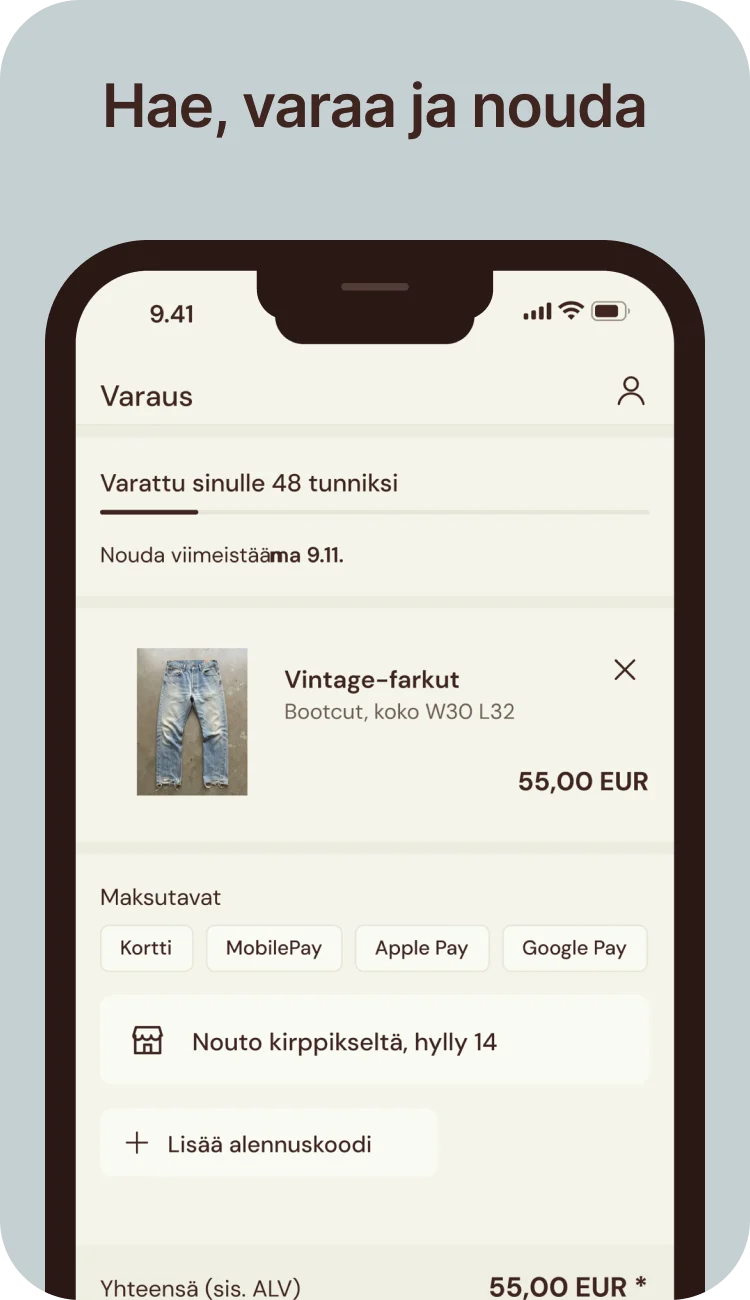
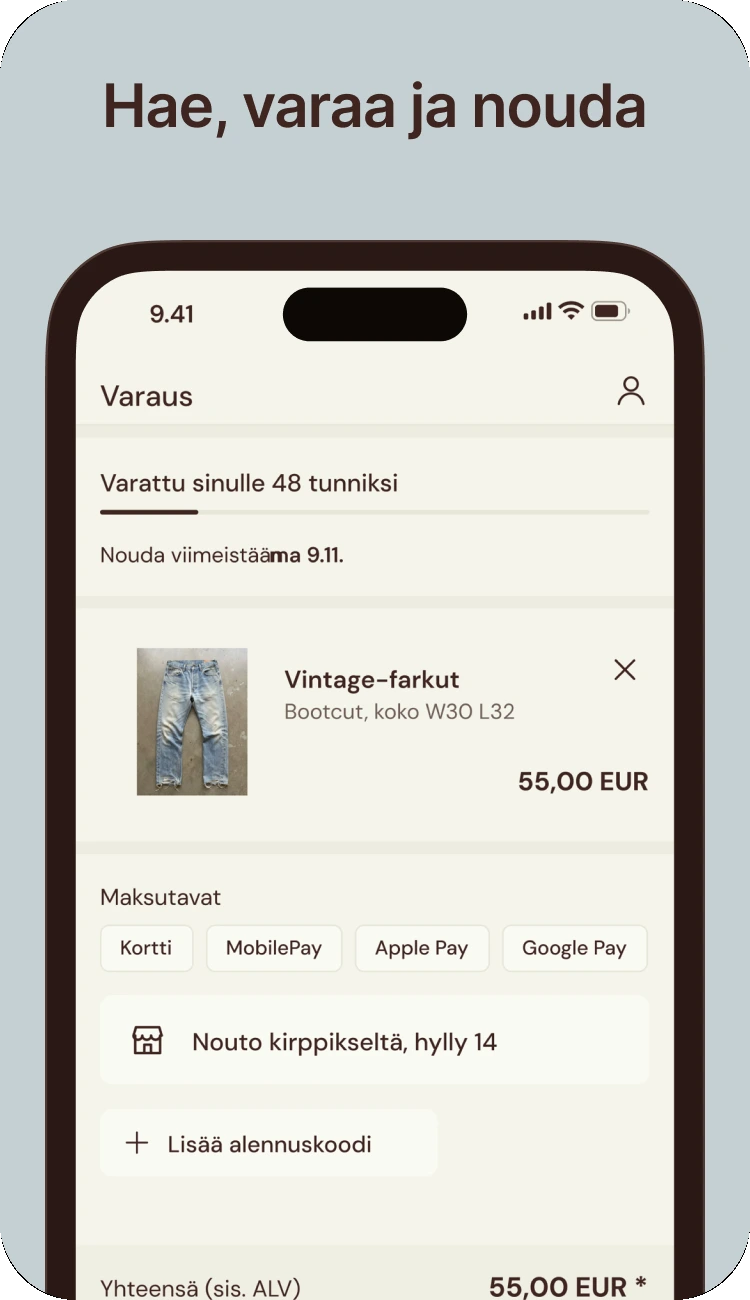
Puhelinmockupit yhtenäisiksi: Dynamic Island, oikeat iPhone-kaaret, näyttökuvista lovet pois (mobiili + desktop)
Claude-Session: https://claude.ai/code/session_01GFdz22wxCZYfy3LenkEfZr

diff --git a/resella.html b/resella.html
@@ -338,12 +338,11 @@ section[id]{scroll-margin-top:72px}
 .ap-grid.on .ap-card:nth-child(2){transition-delay:.08s}.ap-grid.on .ap-card:nth-child(3){transition-delay:.16s}
 .ap-card h3{position:relative;z-index:2;font-family:var(--fd);font-weight:600;font-size:clamp(18px,1.75vw,25px);letter-spacing:-.015em;line-height:1.18;margin:0;padding:clamp(26px,3vw,44px) clamp(22px,2.6vw,40px) 0;max-width:20ch}
 .ap-card.bot h3,.ap-card.photo h3{margin-top:auto;padding:0 clamp(22px,2.6vw,40px) clamp(26px,3vw,44px)}
-.ap-phone{position:absolute;left:50%;width:78%;transform:translateX(-50%);background:#2A1814;border-radius:clamp(26px,3vw,42px);padding:clamp(5px,.6vw,8px);z-index:1}
+.ap-phone{position:absolute;left:50%;width:78%;transform:translateX(-50%);background:#2A1814;border-radius:15.6%/7.6%;padding:4.65%;box-shadow:inset 0 0 0 1.5px rgba(107,84,77,.55);z-index:1}
 .ap-card.top .ap-phone{top:26%}
 .ap-card.bot .ap-phone{bottom:27%}
-.ap-phone img{display:block;width:100%;height:auto;border-radius:clamp(21px,2.5vw,35px)}
-.ap-isl{position:absolute;top:clamp(5px,.6vw,8px);left:50%;width:calc((100% - 2 * clamp(5px,.6vw,8px)) * .395);aspect-ratio:154/32;transform:translateX(-50%);background:#2A1814;border-radius:0 0 13px 13px / 0 0 62% 62%;z-index:2}
-.ap-isl::after{content:"";position:absolute;left:50%;top:25%;width:29%;height:16%;transform:translateX(-50%);border-radius:9px;background:#52403A}
+.ap-phone img{display:block;width:100%;height:auto;border-radius:12.1%/5.6%}
+.ap-isl{position:absolute;top:3.5%;left:50%;width:27.9%;aspect-ratio:120/35;transform:translateX(-50%);background:#0D0806;border-radius:999px;z-index:2}
 .ap-rc{position:absolute;left:9%;right:9%;top:42%;background:var(--bg);border-radius:20px;padding:clamp(16px,1.6vw,24px);display:flex;flex-direction:column;gap:clamp(8px,.8vw,12px);font-size:clamp(13px,1.05vw,15px);text-align:left}
 .ap-rc-top,.ap-rc-row,.ap-rc-tot{display:flex;justify-content:space-between;gap:12px}
 .ap-rc-top{font-size:clamp(15px,1.25vw,18px);padding-bottom:clamp(8px,.8vw,12px);border-bottom:1px solid var(--line)}.ap-rc-top span{color:var(--ink-muted)}
@@ -1185,13 +1184,13 @@ section.fd{background:var(--blue)}
     <button role="tab" aria-selected="true" data-tab="0">Myyjä</button><button role="tab" aria-selected="false" data-tab="1">Ostaja</button><button role="tab" aria-selected="false" data-tab="2">Kaikki hyötyvät</button>
   </div>
   <div class="m-car m-car--app on" data-car data-set="0">
-    <img src="assets/m/a1_1.webp?v=6" alt="Varaa paikka puhelimella" loading="lazy"><img src="assets/m/a1_2.webp?v=6" alt="Kuvaa tuote, saat hintaehdotuksen" loading="lazy"><img src="assets/m/a1_3.webp?v=6" alt="Seuraa myyntiä ja tilityksiä" loading="lazy"><img src="assets/m/a1_4.webp?v=6" alt="Oma profiili ja varaukset" loading="lazy"><img src="assets/m/a1_5.webp?v=6" alt="Saldo näkyy heti" loading="lazy"><img src="assets/m/a1_6.webp?v=6" alt="Myy lähikirppiksellä" loading="lazy">
+    <img src="assets/m/a1_1.webp?v=7" alt="Varaa paikka puhelimella" loading="lazy"><img src="assets/m/a1_2.webp?v=7" alt="Kuvaa tuote, saat hintaehdotuksen" loading="lazy"><img src="assets/m/a1_3.webp?v=7" alt="Seuraa myyntiä ja tilityksiä" loading="lazy"><img src="assets/m/a1_4.webp?v=7" alt="Oma profiili ja varaukset" loading="lazy"><img src="assets/m/a1_5.webp?v=7" alt="Saldo näkyy heti" loading="lazy"><img src="assets/m/a1_6.webp?v=7" alt="Myy lähikirppiksellä" loading="lazy">
   </div>
   <div class="m-car m-car--app" data-car data-set="1" hidden>
-    <img src="assets/m/a2_1.webp?v=6" alt="Uudet löydöt joka päivä" loading="lazy"><img src="assets/m/a2_2.webp?v=6" alt="Hae läheltä ja kauempaa" loading="lazy"><img src="assets/m/a2_3.webp?v=6" alt="Varaa ja nouda kirppikseltä" loading="lazy"><img src="assets/m/a2_4.webp?v=6" alt="Hae kuvalla" loading="lazy"><img src="assets/m/a2_5.webp?v=6" alt="Asuideat kirppislöydöistä" loading="lazy"><img src="assets/m/a2_6.webp?v=6" alt="Kauden löydöt koottuna" loading="lazy"><img src="assets/m/a2_7.webp?v=6" alt="Ilmoitus uusista osumista" loading="lazy">
+    <img src="assets/m/a2_1.webp?v=7" alt="Uudet löydöt joka päivä" loading="lazy"><img src="assets/m/a2_2.webp?v=7" alt="Hae läheltä ja kauempaa" loading="lazy"><img src="assets/m/a2_3.webp?v=7" alt="Varaa ja nouda kirppikseltä" loading="lazy"><img src="assets/m/a2_4.webp?v=7" alt="Hae kuvalla" loading="lazy"><img src="assets/m/a2_5.webp?v=7" alt="Asuideat kirppislöydöistä" loading="lazy"><img src="assets/m/a2_6.webp?v=7" alt="Kauden löydöt koottuna" loading="lazy"><img src="assets/m/a2_7.webp?v=7" alt="Ilmoitus uusista osumista" loading="lazy">
   </div>
   <div class="m-car m-car--app" data-car data-set="2" hidden>
-    <img src="assets/m/a3_1.webp?v=6" alt="Myyjä saa rahat tilille" loading="lazy"><img src="assets/m/a3_2.webp?v=6" alt="Ostaja löytää uniikin tuotteen" loading="lazy"><img src="assets/m/a3_3.webp?v=6" alt="Kirppis saa provision" loading="lazy"><img src="assets/m/a3_4.webp?v=6" alt="Hae, varaa ja nouda" loading="lazy"><img src="assets/m/a3_5.webp?v=6" alt="Kaikki hyllyt yhdessä" loading="lazy"><img src="assets/m/a3_6.webp?v=6" alt="Suosikit talteen" loading="lazy">
+    <img src="assets/m/a3_1.webp?v=7" alt="Myyjä saa rahat tilille" loading="lazy"><img src="assets/m/a3_2.webp?v=7" alt="Ostaja löytää uniikin tuotteen" loading="lazy"><img src="assets/m/a3_3.webp?v=7" alt="Kirppis saa provision" loading="lazy"><img src="assets/m/a3_4.webp?v=7" alt="Hae, varaa ja nouda" loading="lazy"><img src="assets/m/a3_5.webp?v=7" alt="Kaikki hyllyt yhdessä" loading="lazy"><img src="assets/m/a3_6.webp?v=7" alt="Suosikit talteen" loading="lazy">
   </div>
 </section>
 
@@ -1507,7 +1506,7 @@ section.fd{background:var(--blue)}
 <section class="ap" id="kassademo" data-t="1">
   <div class="wrap">
     <div class="ap-panel"><div class="ap-deco" aria-hidden="true"><div class="ap-dg on"><img class="ap-t" src="assets/tarrat/karuselli/varaukset-yopoyta.webp" alt="" style="left:-4.4%;top:8.4%;width:26.3%;aspect-ratio:342/405;object-fit:cover;transform:scaleX(-1)"><img class="ap-t" src="assets/tarrat/karuselli/kayttajaroolit-lamppu.webp" alt="" style="left:76.1%;top:-.8%;width:33.2%;aspect-ratio:432/490;object-fit:cover"></div><div class="ap-dg"><img class="ap-t" src="assets/tarrat/04-didriksons-haalari.webp" alt="" style="left:-3.8%;top:-17.5%;width:37.8%;aspect-ratio:491/557"><img class="ap-t" src="assets/tarrat/05-farkut-bootcut.webp" alt="" style="left:77.4%;top:10.9%;width:23%;aspect-ratio:299/420"></div><div class="ap-dg"><img class="ap-t" src="assets/tarrat/23-farkkutakki.webp" alt="" style="left:-2.2%;top:3.1%;width:32.3%;aspect-ratio:420/398"><img class="ap-t" src="assets/tarrat/16-jakkara.webp" alt="" style="left:79.3%;top:-17.5%;width:32%;aspect-ratio:416/811"></div></div><div class="ap-heads"><h2 class="disp m on">Myyjä laittaa tuotteet myyntiin</h2><h2 class="disp m">Ostaja löytää ne sovelluksesta</h2><h2 class="disp m">Kirppis, myyjä ja ostaja hyötyvät</h2></div></div>
-    <div class="ap-sets"><div class="ap-grid on" aria-hidden="false"><article class="ap-card top"><h3>Myy lähikirppiksellä</h3><div class="ap-phone"><div class="ap-isl"></div><img src="assets/kuvat/appi/myy-kirppiksella.webp" alt="Sovelluksen kotinäkymä: myy kirppiksellä, varaa myyntipaikka" loading="lazy"></div></article><article class="ap-card bot"><div class="ap-web"><img src="assets/kuvat/hallinta-hintaehdotus.webp" alt="Hallinnan Uusi tuote -näkymä: hintaehdotus 18–24 EUR kuvasta" loading="lazy"></div><h3>Hintaehdotus kuvasta</h3></article><article class="ap-card top"><h3>Seuraa myyntiä ja tilityksiä</h3><div class="ap-phone"><div class="ap-isl"></div><img src="assets/kuvat/appi/saldo.webp" alt="Tilitykset: saldo 51,00 EUR" loading="lazy"></div></article></div><div class="ap-grid" aria-hidden="true"><article class="ap-card top"><h3>Uudet löydöt joka päivä</h3><div class="ap-phone"><div class="ap-isl"></div><img src="assets/kuvat/appi/inspiraatio-asu.webp" alt="Sovelluksen kotinäkymä: asuidea kirppislöydöistä" loading="lazy"></div></article><article class="ap-card bot"><div class="ap-phone"><div class="ap-isl"></div><img src="assets/kuvat/appi/haku.webp" alt="Hakutulokset: farkkuja eri kirppiksiltä" loading="lazy"></div><h3>Hae läheltä ja kauempaa</h3></article><article class="ap-card top"><h3>Varaa ja nouda kirppikseltä</h3><div class="ap-phone"><div class="ap-isl"></div><img src="assets/kuvat/appi/ostoskori.webp" alt="Ostoskori: nouto kirppikseltä tai kotiin" loading="lazy"></div></article></div><div class="ap-grid" aria-hidden="true"><article class="ap-card top"><h3>Kirppis saa provision</h3><div class="ap-rc"><div class="ap-rc-top"><b>Ostoskori</b><span>Pöytä 14</span></div><div class="ap-rc-row"><span>Villapaita</span><b>12,00 €</b></div><div class="ap-rc-row"><span>Nahkatakki</span><b>35,00 €</b></div><div class="ap-rc-row"><span>Lastenkirja</span><b>4,00 €</b></div><div class="ap-rc-tot"><span>Provisio kirppikselle</span><b>Jokaisesta</b></div></div></article><article class="ap-card top"><h3>Myyjä saa rahat tilille</h3><div class="ap-phone"><div class="ap-isl"></div><img src="assets/kuvat/appi/siirrot.webp" alt="Tilitykset: siirrot pankkitilille" loading="lazy"></div></article><article class="ap-card photo"><div class="ap-photo"><img src="assets/kuvat/06_ihmiset/loyto_juna.webp" alt="Mies istuu junassa ruskeassa puvussa ja lippalakissa" loading="lazy"></div><h3>Ostaja löytää uniikin tuotteen</h3></article></div></div>
+    <div class="ap-sets"><div class="ap-grid on" aria-hidden="false"><article class="ap-card top"><h3>Myy lähikirppiksellä</h3><div class="ap-phone"><div class="ap-isl"></div><img src="assets/kuvat/appi/myy-kirppiksella.webp?v=9" alt="Sovelluksen kotinäkymä: myy kirppiksellä, varaa myyntipaikka" loading="lazy"></div></article><article class="ap-card bot"><div class="ap-web"><img src="assets/kuvat/hallinta-hintaehdotus.webp" alt="Hallinnan Uusi tuote -näkymä: hintaehdotus 18–24 EUR kuvasta" loading="lazy"></div><h3>Hintaehdotus kuvasta</h3></article><article class="ap-card top"><h3>Seuraa myyntiä ja tilityksiä</h3><div class="ap-phone"><div class="ap-isl"></div><img src="assets/kuvat/appi/saldo.webp?v=9" alt="Tilitykset: saldo 51,00 EUR" loading="lazy"></div></article></div><div class="ap-grid" aria-hidden="true"><article class="ap-card top"><h3>Uudet löydöt joka päivä</h3><div class="ap-phone"><div class="ap-isl"></div><img src="assets/kuvat/appi/inspiraatio-asu.webp?v=9" alt="Sovelluksen kotinäkymä: asuidea kirppislöydöistä" loading="lazy"></div></article><article class="ap-card bot"><div class="ap-phone"><div class="ap-isl"></div><img src="assets/kuvat/appi/haku.webp?v=9" alt="Hakutulokset: farkkuja eri kirppiksiltä" loading="lazy"></div><h3>Hae läheltä ja kauempaa</h3></article><article class="ap-card top"><h3>Varaa ja nouda kirppikseltä</h3><div class="ap-phone"><div class="ap-isl"></div><img src="assets/kuvat/appi/ostoskori.webp?v=9" alt="Ostoskori: nouto kirppikseltä tai kotiin" loading="lazy"></div></article></div><div class="ap-grid" aria-hidden="true"><article class="ap-card top"><h3>Kirppis saa provision</h3><div class="ap-rc"><div class="ap-rc-top"><b>Ostoskori</b><span>Pöytä 14</span></div><div class="ap-rc-row"><span>Villapaita</span><b>12,00 €</b></div><div class="ap-rc-row"><span>Nahkatakki</span><b>35,00 €</b></div><div class="ap-rc-row"><span>Lastenkirja</span><b>4,00 €</b></div><div class="ap-rc-tot"><span>Provisio kirppikselle</span><b>Jokaisesta</b></div></div></article><article class="ap-card top"><h3>Myyjä saa rahat tilille</h3><div class="ap-phone"><div class="ap-isl"></div><img src="assets/kuvat/appi/siirrot.webp?v=9" alt="Tilitykset: siirrot pankkitilille" loading="lazy"></div></article><article class="ap-card photo"><div class="ap-photo"><img src="assets/kuvat/06_ihmiset/loyto_juna.webp" alt="Mies istuu junassa ruskeassa puvussa ja lippalakissa" loading="lazy"></div><h3>Ostaja löytää uniikin tuotteen</h3></article></div></div>
     <div class="ap-dots" aria-hidden="true"><i class="on"></i><i></i><i></i></div>
   </div>
 </section>
